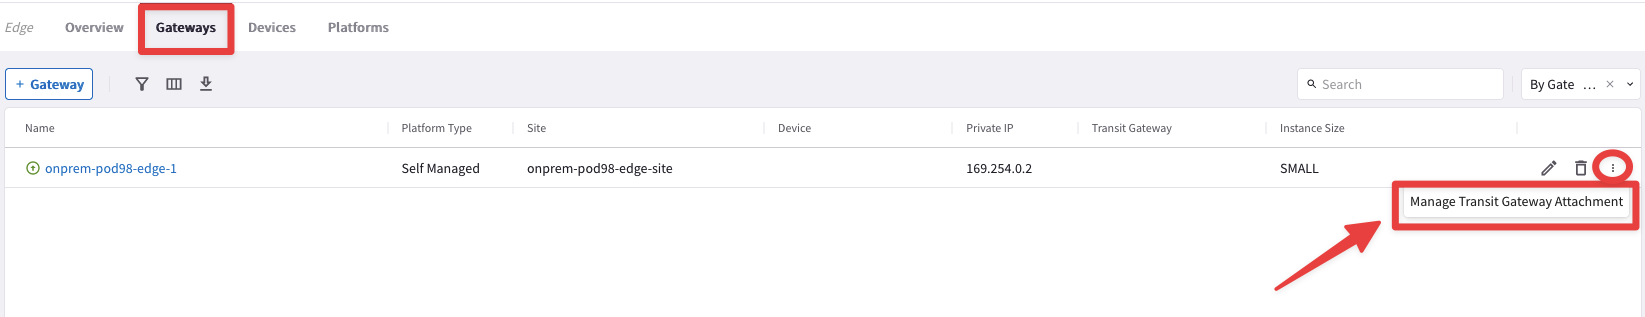
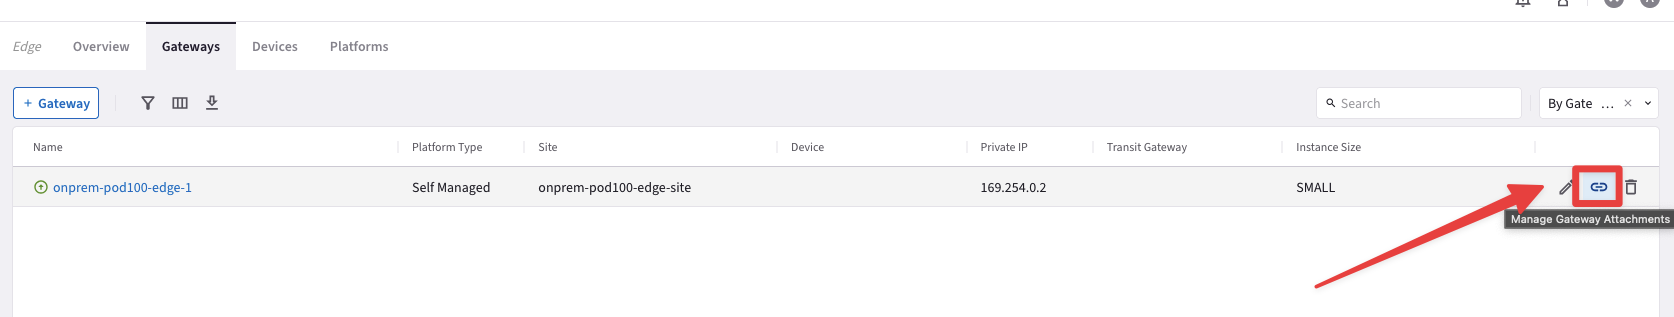
update for pro

diff --git a/ace_pro/docs/lab8.md b/ace_pro/docs/lab8.md
@@ -86,7 +86,7 @@ BGP ASN
 
 Now it's time to establish the attachment! 
 
-Go to **CoPilot > Cloud Fabric > Edge > Gateways** and click on the **three dots icon** beside the Edge device entry and then click on `"Manage Transit Gateway Attachment"`.
+Go to **CoPilot > Cloud Fabric > Edge > Gateways** and click on the `"Manage Transit Gateway Attachment"` button, on the right-hand side of the screen.
 
 ```{figure} images/lab8-edge9.png
 ---
@@ -95,7 +95,7 @@ align: center
 Manage Transit Gateway Attachment
 ```
 
-Click on the `"+ Transit Gateway Attachment"` button.
+Click on the `"+Attachment"` button.
 
 ```{figure} images/lab8-edge10.png
 ---
@@ -107,7 +107,7 @@ Transit Gateway Attachment
 Fill in the attachment template using the following settings:
 
 - **Transt Gateway**: <span style='color:#479608'>aws-us-east-2-transit</span>
-- **Connecting Edge Interfaces**: <span style='color:#479608'>WAN(etho)</span>
+- **Local Edge Gateway Interfaces**: <span style='color:#479608'>WAN(etho)</span>
 - **Attach over Private Network**: <span style='color:#479608'>**OFF**</span>
 - **High Performance Encryption**: <span style='color:#479608'>**OFF**</span>
 
